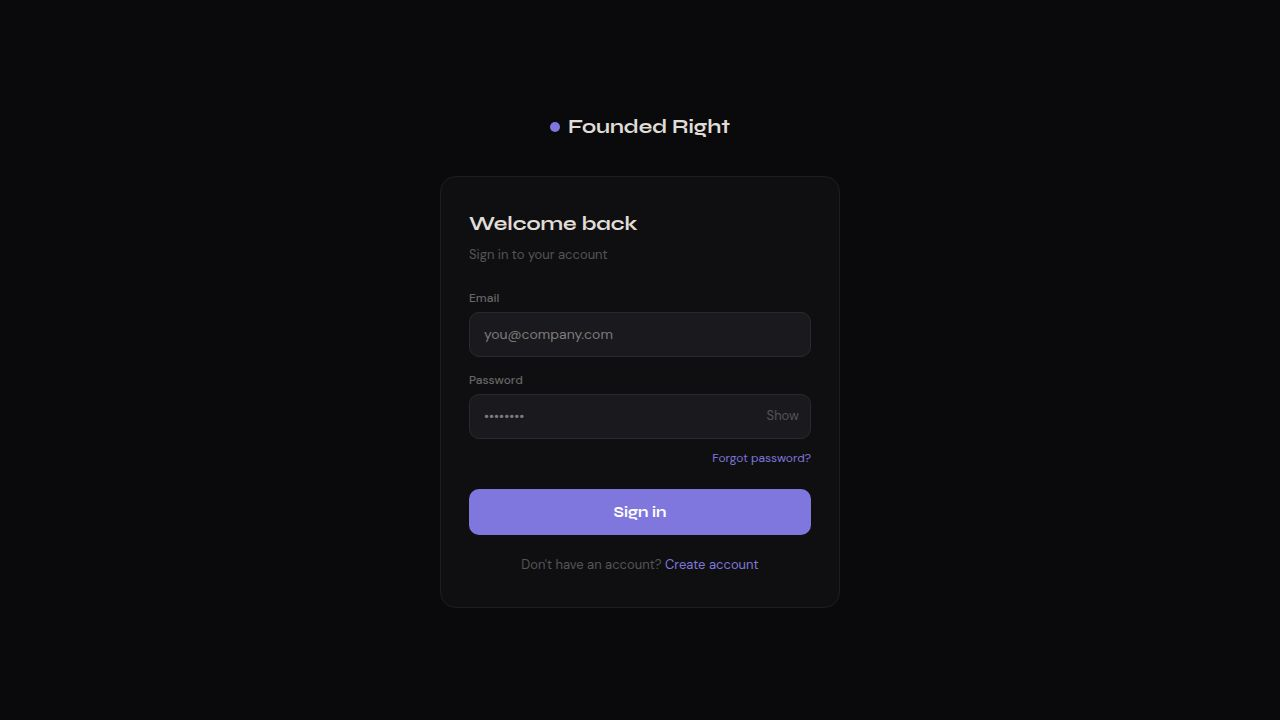
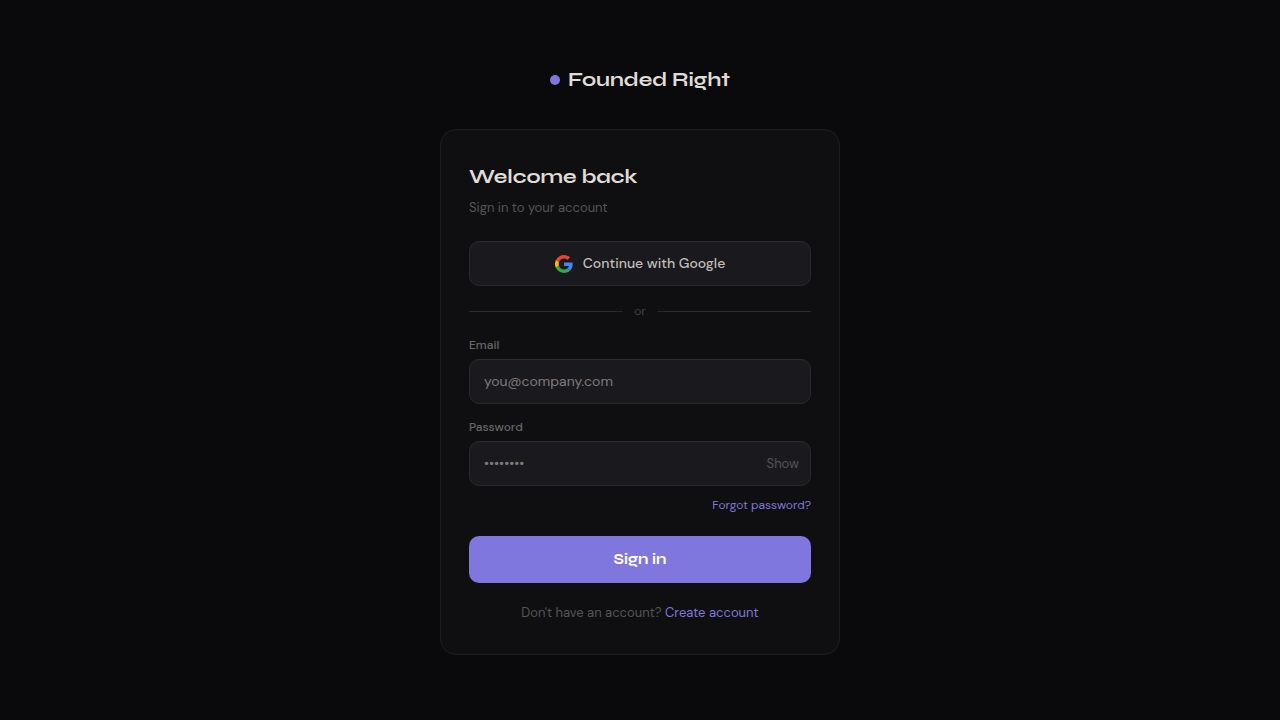
Add Google sign-in option to user authentication screens
Introduces Google OAuth sign-in functionality to both the sign-in and sign-up components in `App.tsx` using Supabase's `signInWithOAuth` method, including a styled "Continue with Google" button and an "or" divider.

Replit-Commit-Author: Agent
Replit-Commit-Session-Id: db080e5b-ff8e-450d-a919-3f1c701105bc
Replit-Commit-Checkpoint-Type: full_checkpoint
Replit-Commit-Event-Id: 8cb7d91a-70a9-4c60-9c2d-4c19ec62c945
Replit-Commit-Screenshot-Url: https://storage.googleapis.com/screenshot-production-us-central1/a648364c-b157-4e34-b612-e6f6ac762983/db080e5b-ff8e-450d-a919-3f1c701105bc/matEnyG
Replit-Helium-Checkpoint-Created: true

diff --git a/artifacts/bizlaunch/src/App.tsx b/artifacts/bizlaunch/src/App.tsx
@@ -480,6 +480,30 @@ function AuthScreens({ mode, setMode }: { mode: "signin" | "signup" | "forgot"; 
     setLoading(false);
   }
 
+  async function handleGoogleSignIn() {
+    setError(""); setLoading(true);
+    const { error } = await supabase.auth.signInWithOAuth({
+      provider: "google",
+      options: { redirectTo: "https://foundedright.co" },
+    });
+    if (error) { setError(error.message); setLoading(false); }
+  }
+
+  const googleBtn = (
+    <button type="button" onClick={handleGoogleSignIn} disabled={loading} style={{ width: "100%", background: "#1a1a1e", border: "1px solid #2a2a2e", borderRadius: 10, padding: "11px 14px", color: "#c0bdb8", fontSize: 14, fontWeight: 500, cursor: loading ? "not-allowed" : "pointer", display: "flex", alignItems: "center", justifyContent: "center", gap: 10, opacity: loading ? 0.7 : 1 }}>
+      <svg width="18" height="18" viewBox="0 0 48 48"><path fill="#EA4335" d="M24 9.5c3.54 0 6.71 1.22 9.21 3.6l6.85-6.85C35.9 2.38 30.47 0 24 0 14.62 0 6.51 5.38 2.56 13.22l7.98 6.19C12.43 13.72 17.74 9.5 24 9.5z"/><path fill="#4285F4" d="M46.98 24.55c0-1.57-.15-3.09-.38-4.55H24v9.02h12.94c-.58 2.96-2.26 5.48-4.78 7.18l7.73 6c4.51-4.18 7.09-10.36 7.09-17.65z"/><path fill="#FBBC05" d="M10.53 28.59c-.48-1.45-.76-2.99-.76-4.59s.27-3.14.76-4.59l-7.98-6.19C.92 16.46 0 20.12 0 24c0 3.88.92 7.54 2.56 10.78l7.97-6.19z"/><path fill="#34A853" d="M24 48c6.48 0 11.93-2.13 15.89-5.81l-7.73-6c-2.15 1.45-4.92 2.3-8.16 2.3-6.26 0-11.57-4.22-13.47-9.91l-7.98 6.19C6.51 42.62 14.62 48 24 48z"/></svg>
+      Continue with Google
+    </button>
+  );
+
+  const divider = (
+    <div style={{ display: "flex", alignItems: "center", gap: 12, margin: "16px 0" }}>
+      <div style={{ flex: 1, height: 1, background: "#2a2a2e" }} />
+      <span style={{ fontSize: 12, color: "#444" }}>or</span>
+      <div style={{ flex: 1, height: 1, background: "#2a2a2e" }} />
+    </div>
+  );
+
   const brand = (
     <div style={{ textAlign: "center", marginBottom: 28 }}>
       <div style={{ display: "inline-flex", alignItems: "center", gap: 8, marginBottom: 6 }}>
@@ -502,6 +526,8 @@ function AuthScreens({ mode, setMode }: { mode: "signin" | "signup" | "forgot"; 
                 <div style={{ fontSize: 20, fontWeight: 700, color: "#e0ddd8", fontFamily: "'Syne',sans-serif", marginBottom: 6 }}>Welcome back</div>
                 <div style={{ fontSize: 13, color: "#555", marginBottom: 24 }}>Sign in to your account</div>
                 {error && <div style={{ background: "#E24B4A18", border: "1px solid #E24B4A44", borderRadius: 8, padding: "10px 14px", color: "#E24B4A", fontSize: 13, marginBottom: 16 }}>{error}</div>}
+                {googleBtn}
+                {divider}
                 <div style={{ marginBottom: 14 }}>
                   <label style={labelStyle}>Email</label>
                   <input type="email" value={email} onChange={e => setEmail(e.target.value)} required autoFocus style={inputStyle} placeholder="you@company.com" />
@@ -527,6 +553,7 @@ function AuthScreens({ mode, setMode }: { mode: "signin" | "signup" | "forgot"; 
                 <div style={{ fontSize: 13, color: "#555", marginBottom: 24 }}>Get started with Founded Right</div>
                 {error && <div style={{ background: "#E24B4A18", border: "1px solid #E24B4A44", borderRadius: 8, padding: "10px 14px", color: "#E24B4A", fontSize: 13, marginBottom: 16 }}>{error}</div>}
                 {success && <div style={{ background: "#1D9E7518", border: "1px solid #1D9E7544", borderRadius: 8, padding: "10px 14px", color: "#1D9E75", fontSize: 13, marginBottom: 16 }}>{success}</div>}
+                {!success && <>{googleBtn}{divider}</>}
                 {!success && <>
                   <div style={{ marginBottom: 14 }}>
                     <label style={labelStyle}>Email</label>
